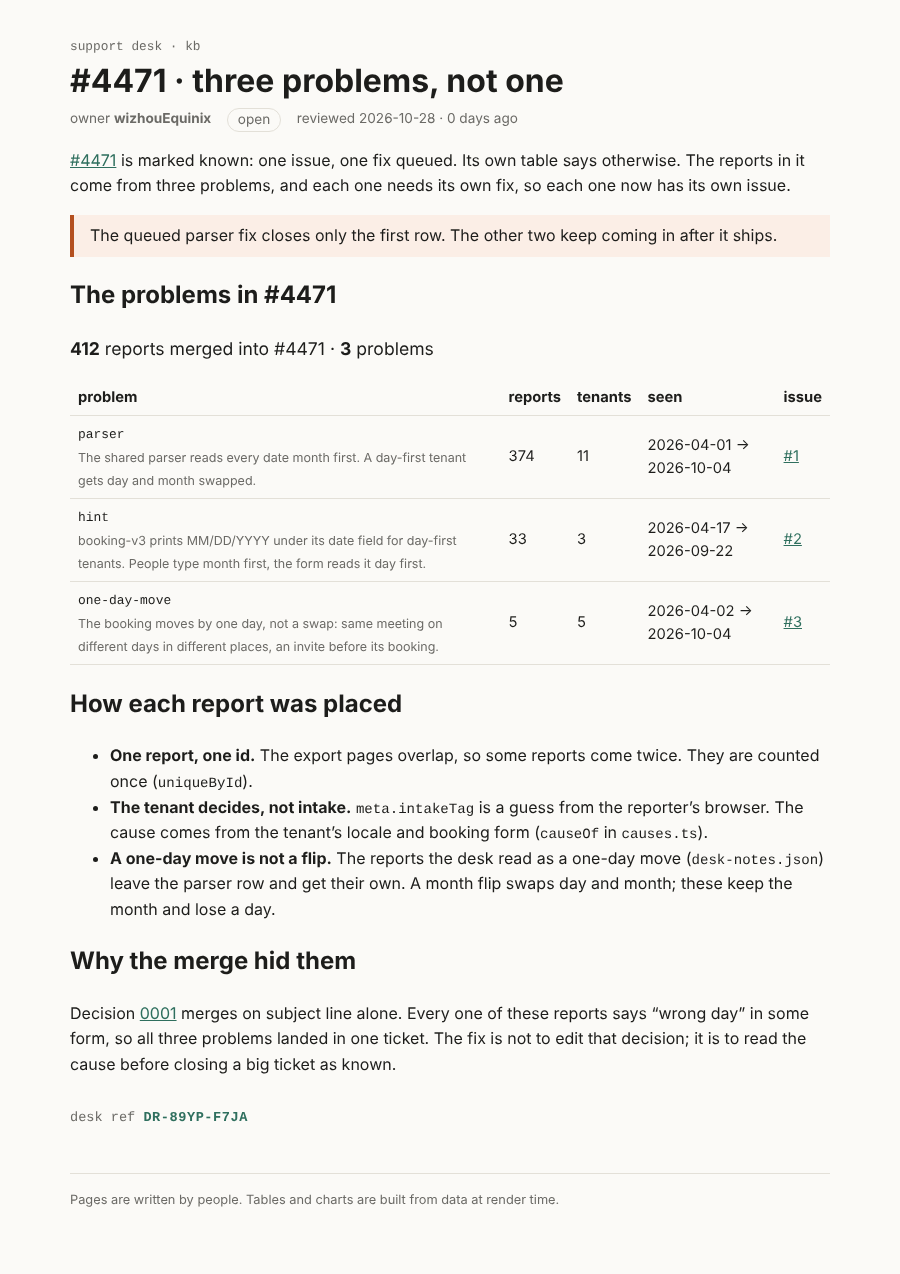
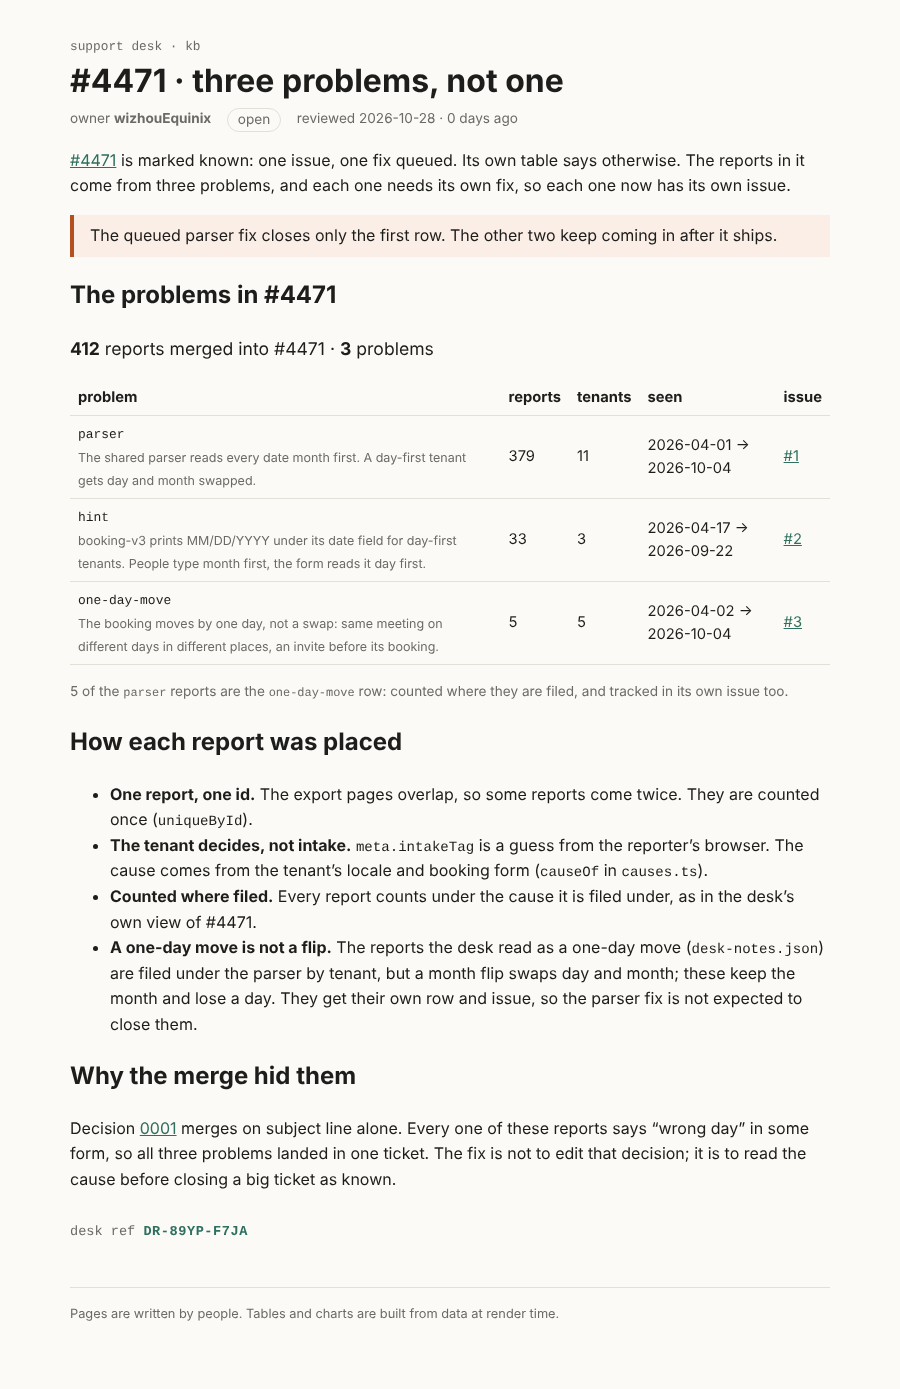
Count #4471 problems where filed, as in the desk's own view
Claude-Session: https://claude.ai/code/session_01JJ1xhGxfgLp26DrXzbgqdE

diff --git a/rendered/kb-incidents-4471-problems.html b/rendered/kb-incidents-4471-problems.html
@@ -3,19 +3,19 @@
   <head>
     <meta charset="utf-8" />
     <meta name="viewport" content="width=device-width, initial-scale=1" />
-    <link href="../../../_app/immutable/entry/start.CcOU2xM5.js" rel="modulepreload">
+    <link href="../../../_app/immutable/entry/start.LQW6uMbW.js" rel="modulepreload">
 		<link href="../../../_app/immutable/chunks/WgfOfNfE.js" rel="modulepreload">
-		<link href="../../../_app/immutable/chunks/5Sjw18LO.js" rel="modulepreload">
+		<link href="../../../_app/immutable/chunks/DgpPCGm4.js" rel="modulepreload">
 		<link href="../../../_app/immutable/chunks/CZomEjWq.js" rel="modulepreload">
-		<link href="../../../_app/immutable/entry/app.De2VHPQR.js" rel="modulepreload">
+		<link href="../../../_app/immutable/entry/app.BxYioCoF.js" rel="modulepreload">
 		<link href="../../../_app/immutable/chunks/DZni_WYU.js" rel="modulepreload">
 		<link href="../../../_app/immutable/chunks/BMv-2JeR.js" rel="modulepreload">
 		<link href="../../../_app/immutable/chunks/DQhTBKxc.js" rel="modulepreload">
 		<link href="../../../_app/immutable/chunks/DL3LuOT-.js" rel="modulepreload">
 		<link href="../../../_app/immutable/nodes/0.Dqsao82p.js" rel="modulepreload">
 		<link href="../../../_app/immutable/chunks/BRmqMdvF.js" rel="modulepreload">
-		<link href="../../../_app/immutable/nodes/5.DAqxhAKK.js" rel="modulepreload">
-		<link href="../../../_app/immutable/chunks/hmfTUFi2.js" rel="modulepreload">
+		<link href="../../../_app/immutable/nodes/5.BJPerCBf.js" rel="modulepreload">
+		<link href="../../../_app/immutable/chunks/Bh5ZTP4b.js" rel="modulepreload">
 		<link href="../../../_app/immutable/chunks/CCdwa9zY.js" rel="modulepreload">
 		<link href="../../../_app/immutable/chunks/DZqXfhuf.js" rel="modulepreload">
 		<link href="../../../_app/immutable/chunks/iXLSwIXB.js" rel="modulepreload">
@@ -24,29 +24,29 @@
 
 aside.svelte-17bri61{border-left:4px solid var(--accent);padding:.5rem 1rem;margin:1rem 0;background:var(--note-bg)}aside.warn.svelte-17bri61{border-color:var(--warn);background:var(--warn-bg)}
 
-.sum.svelte-1op6c6{font-size:1.1rem}.what.svelte-1op6c6{color:var(--muted);font-size:.85em}.none.svelte-1op6c6,.loose.svelte-1op6c6 td:where(.svelte-1op6c6){color:var(--warn);font-weight:600}.stamp.svelte-1280m42{margin:2rem 0 0;font:.85rem var(--mono);color:var(--muted)}.stamp.svelte-1280m42 b:where(.svelte-1280m42){color:var(--accent);letter-spacing:.04em}.missing.svelte-1280m42{color:var(--warn)}
+.sum.svelte-1op6c6{font-size:1.1rem}.note.svelte-1op6c6,.what.svelte-1op6c6{color:var(--muted);font-size:.85em}.none.svelte-1op6c6,.loose.svelte-1op6c6 td:where(.svelte-1op6c6){color:var(--warn);font-weight:600}.stamp.svelte-1280m42{margin:2rem 0 0;font:.85rem var(--mono);color:var(--muted)}.stamp.svelte-1280m42 b:where(.svelte-1280m42){color:var(--accent);letter-spacing:.04em}.missing.svelte-1280m42{color:var(--warn)}
 </style>
 		<link href="../../../_app/immutable/assets/runbook.BhhgOc_n.css" rel="stylesheet" disabled media="(max-width: 0)">
 		<link href="../../../_app/immutable/assets/Callout.yLErXQDM.css" rel="stylesheet" disabled media="(max-width: 0)">
-		<link href="../../../_app/immutable/assets/5.DX2shuT6.css" rel="stylesheet" disabled media="(max-width: 0)">
+		<link href="../../../_app/immutable/assets/5.FAk-WVrq.css" rel="stylesheet" disabled media="(max-width: 0)">
   </head>
   <body><div style="display: contents"><!--[--><!--[0--><!--[--><!--[--><div class="kb svelte-e2jw2j"><header><a class="crumb svelte-e2jw2j" href="/kb">support desk · kb</a> <h1 class="svelte-e2jw2j">#4471 · three problems, not one</h1> <p class="meta svelte-e2jw2j"><span>owner <b>wizhouEquinix</b></span> <span class="status open svelte-e2jw2j">open</span> <span class="svelte-e2jw2j">reviewed 2026-10-28 · 0 days ago</span></p></header> <!--[-1--><!--]--> <main><p><a href="/kb/incidents/4471">#4471</a> is marked known: one issue, one fix queued. Its own table says
 otherwise. The reports in it come from three problems, and each one needs its own fix, so each
-one now has its own issue.</p> <aside class="warn svelte-17bri61"><!---->The queued parser fix closes only the first row. The other two keep coming in after it ships.<!----></aside><!----> <h2>The problems in #4471</h2> <p class="sum svelte-1op6c6"><strong>412</strong> reports merged into #4471 · <strong>3</strong> problems</p> <table><thead><tr><th>problem</th><th>reports</th><th>tenants</th><th>seen</th><th>issue</th></tr></thead><tbody><!--[--><tr class="svelte-1op6c6"><td class="svelte-1op6c6"><code>parser</code> <!--[0--><br/><span class="what svelte-1op6c6">The shared parser reads every date month first. A day-first tenant gets day and month swapped.</span><!--]--></td><td class="svelte-1op6c6">374</td><td class="svelte-1op6c6">11</td><td class="svelte-1op6c6">2026-04-01 → 2026-10-04</td><td class="svelte-1op6c6"><!--[0--><a href="https://github.com/wizhouEquinix/mega-s01e03/issues/1">#1</a><!--]--></td></tr><tr class="svelte-1op6c6"><td class="svelte-1op6c6"><code>hint</code> <!--[0--><br/><span class="what svelte-1op6c6">booking-v3 prints MM/DD/YYYY under its date field for day-first tenants. People type month first, the form reads it day first.</span><!--]--></td><td class="svelte-1op6c6">33</td><td class="svelte-1op6c6">3</td><td class="svelte-1op6c6">2026-04-17 → 2026-09-22</td><td class="svelte-1op6c6"><!--[0--><a href="https://github.com/wizhouEquinix/mega-s01e03/issues/2">#2</a><!--]--></td></tr><tr class="svelte-1op6c6"><td class="svelte-1op6c6"><code>one-day-move</code> <!--[0--><br/><span class="what svelte-1op6c6">The booking moves by one day, not a swap: same meeting on different days in different places, an invite before its booking.</span><!--]--></td><td class="svelte-1op6c6">5</td><td class="svelte-1op6c6">5</td><td class="svelte-1op6c6">2026-04-02 → 2026-10-04</td><td class="svelte-1op6c6"><!--[0--><a href="https://github.com/wizhouEquinix/mega-s01e03/issues/3">#3</a><!--]--></td></tr><!--]--></tbody></table><!----> <h2>How each report was placed</h2> <ul><li><strong>One report, one id.</strong> The export pages overlap, so some reports come twice. They are counted once (<code>uniqueById</code>).</li> <li><strong>The tenant decides, not intake.</strong> <code>meta.intakeTag</code> is a guess from the reporter’s browser. The cause comes from the tenant’s locale and booking form (<code>causeOf</code> in <code>causes.ts</code>).</li> <li><strong>A one-day move is not a flip.</strong> The reports the desk read as a one-day move (<code>desk-notes.json</code>) leave the parser row and get their own. A month flip swaps day and month; these keep the month and lose a day.</li></ul> <h2>Why the merge hid them</h2> <p>Decision <a href="/kb/decisions/0001-dedupe-by-subject">0001</a> merges on subject line alone. Every one of
+one now has its own issue.</p> <aside class="warn svelte-17bri61"><!---->The queued parser fix closes only the first row. The other two keep coming in after it ships.<!----></aside><!----> <h2>The problems in #4471</h2> <p class="sum svelte-1op6c6"><strong>412</strong> reports merged into #4471 · <strong>3</strong> problems</p> <table><thead><tr><th>problem</th><th>reports</th><th>tenants</th><th>seen</th><th>issue</th></tr></thead><tbody><!--[--><tr class="svelte-1op6c6"><td class="svelte-1op6c6"><code>parser</code> <!--[0--><br/><span class="what svelte-1op6c6">The shared parser reads every date month first. A day-first tenant gets day and month swapped.</span><!--]--></td><td class="svelte-1op6c6">379</td><td class="svelte-1op6c6">11</td><td class="svelte-1op6c6">2026-04-01 → 2026-10-04</td><td class="svelte-1op6c6"><!--[0--><a href="https://github.com/wizhouEquinix/mega-s01e03/issues/1">#1</a><!--]--></td></tr><tr class="svelte-1op6c6"><td class="svelte-1op6c6"><code>hint</code> <!--[0--><br/><span class="what svelte-1op6c6">booking-v3 prints MM/DD/YYYY under its date field for day-first tenants. People type month first, the form reads it day first.</span><!--]--></td><td class="svelte-1op6c6">33</td><td class="svelte-1op6c6">3</td><td class="svelte-1op6c6">2026-04-17 → 2026-09-22</td><td class="svelte-1op6c6"><!--[0--><a href="https://github.com/wizhouEquinix/mega-s01e03/issues/2">#2</a><!--]--></td></tr><tr class="svelte-1op6c6"><td class="svelte-1op6c6"><code>one-day-move</code> <!--[0--><br/><span class="what svelte-1op6c6">The booking moves by one day, not a swap: same meeting on different days in different places, an invite before its booking.</span><!--]--></td><td class="svelte-1op6c6">5</td><td class="svelte-1op6c6">5</td><td class="svelte-1op6c6">2026-04-02 → 2026-10-04</td><td class="svelte-1op6c6"><!--[0--><a href="https://github.com/wizhouEquinix/mega-s01e03/issues/3">#3</a><!--]--></td></tr><!--]--></tbody></table> <!--[0--><!--[--><p class="note svelte-1op6c6">5 of the <code>parser</code> reports are the <code>one-day-move</code> row: counted where they are filed, and tracked in its own issue too.</p><!--]--><!--]--><!----> <h2>How each report was placed</h2> <ul><li><strong>One report, one id.</strong> The export pages overlap, so some reports come twice. They are counted once (<code>uniqueById</code>).</li> <li><strong>The tenant decides, not intake.</strong> <code>meta.intakeTag</code> is a guess from the reporter’s browser. The cause comes from the tenant’s locale and booking form (<code>causeOf</code> in <code>causes.ts</code>).</li> <li><strong>Counted where filed.</strong> Every report counts under the cause it is filed under, as in the desk’s own view of #4471.</li> <li><strong>A one-day move is not a flip.</strong> The reports the desk read as a one-day move (<code>desk-notes.json</code>) are filed under the parser by tenant, but a month flip swaps day and month; these keep the month and lose a day. They get their own row and issue, so the parser fix is not expected to close them.</li></ul> <h2>Why the merge hid them</h2> <p>Decision <a href="/kb/decisions/0001-dedupe-by-subject">0001</a> merges on subject line alone. Every one of
 these reports says “wrong day” in some form, so all three problems landed in one ticket. The
 fix is not to edit that decision; it is to read the cause before closing a big ticket as known.</p> <!--[0--><p class="stamp svelte-1280m42">desk ref <b class="svelte-1280m42">DR-89YP-F7JA</b></p><!--]--><!----><!----></main> <footer class="svelte-e2jw2j">Pages are written by people. Tables and charts are built from data at render time.</footer></div><!--]--><!----><!--]--><!--]--> <!--[-1--><!--]--><!--]-->
 			
 			<script>
 				{
-					__sveltekit_me8xiw = {
+					__sveltekit_8tmoet = {
 						base: new URL("../../..", location).pathname.slice(0, -1)
 					};
 
 					const element = document.currentScript.parentElement;
 
 					Promise.all([
-						import("../../../_app/immutable/entry/start.CcOU2xM5.js"),
-						import("../../../_app/immutable/entry/app.De2VHPQR.js")
+						import("../../../_app/immutable/entry/start.LQW6uMbW.js"),
+						import("../../../_app/immutable/entry/app.BxYioCoF.js")
 					]).then(([kit, app]) => {
 						kit.start(app, element, {
 							node_ids: [0, 5],

diff --git a/src/lib/kb/ProblemTable.svelte b/src/lib/kb/ProblemTable.svelte
@@ -1,7 +1,7 @@
 <script lang="ts">
   import reports from '#lib/data/reports-4471.json';
   import notes from '#lib/data/desk-notes.json';
-  import type { Report } from '#lib/kb/causes';
+  import { uniqueById, type Report } from '#lib/kb/causes';
   import { tenantOf } from '#lib/kb/locales';
   import { PROBLEMS, problemsOf, type Problem } from '#lib/kb/problems';
 
@@ -9,7 +9,9 @@
   let { ticket, issues = {} }: { ticket: number; issues?: Partial<Record<Problem, string>> } = $props();
 
   const groups = $derived(problemsOf(reports as Report[], ticket, tenantOf, notes.oneDayMove));
-  const total = $derived(groups.reduce((n, g) => n + g.reports.length, 0));
+  const total = $derived(uniqueById(reports as Report[]).filter((r) => r.mergedInto === ticket).length);
+  const moved = $derived(groups.find((g) => g.problem === 'one-day-move'));
+  const filedUnder = $derived(moved ? groups.filter((g) => g.problem !== 'one-day-move' && g.reports.some((r) => moved.reports.includes(r))) : []);
   const issueNo = (url?: string) => (url ? `#${url.split('/').pop()}` : 'no issue yet');
 </script>
 
@@ -42,8 +44,15 @@
   </tbody>
 </table>
 
+{#if moved}
+  {#each filedUnder as g (g.problem)}
+    <p class="note">{g.reports.filter((r) => moved.reports.includes(r)).length} of the <code>{g.problem}</code> reports are the <code>one-day-move</code> row: counted where they are filed, and tracked in its own issue too.</p>
+  {/each}
+{/if}
+
 <style>
   .sum { font-size: 1.1rem; }
+  .note { color: var(--muted); font-size: 0.85em; }
   .what { color: var(--muted); font-size: 0.85em; }
   .none, .loose td { color: var(--warn); font-weight: 600; }
 </style>

diff --git a/src/lib/kb/problems.ts b/src/lib/kb/problems.ts
@@ -1,6 +1,7 @@
-// One problem per thing engineering has to fix. Built on causes.ts, plus the reports the desk
-// read as a one-day move (desk-notes.json): those are not a month flip, so they get their own row
-// instead of a footnote under the cause their tenant points at.
+// One problem per thing engineering has to fix. Built on causes.ts, counted the desk's way: every
+// report where it is filed (its cause, by tenant). The reports the desk read as a one-day move
+// (desk-notes.json) stay counted under the cause they are filed under, and also get their own row,
+// because they need their own fix.
 import { groupByCause, uniqueById, type Report, type Tenant } from '#lib/kb/causes';
 
 export type Problem = 'parser' | 'hint' | 'one-day-move';
@@ -30,9 +31,8 @@ export function problemsOf(
 ): ProblemGroup[] {
   const merged = uniqueById(all).filter((r) => r.mergedInto === ticket);
   const moved = merged.filter((r) => oneDayMove.includes(r.id));
-  const rest = merged.filter((r) => !oneDayMove.includes(r.id));
   const groups: { problem: ProblemGroup['problem']; reports: Report[] }[] = [
-    ...groupByCause(rest, tenantOf).map((g) => ({ problem: g.cause, reports: g.reports })),
+    ...groupByCause(merged, tenantOf).map((g) => ({ problem: g.cause, reports: g.reports })),
     ...(moved.length ? [{ problem: 'one-day-move' as const, reports: moved }] : []),
   ];
   return groups
